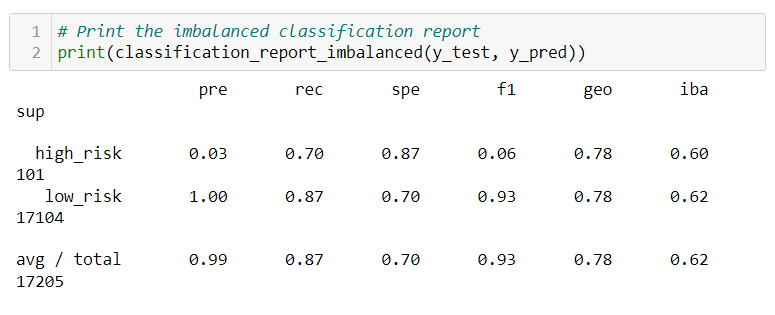
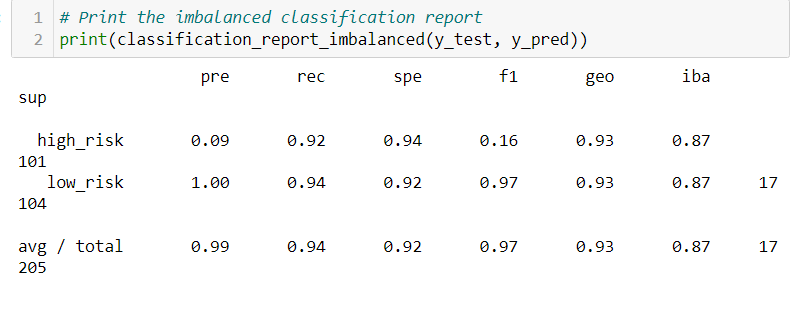
updating results

diff --git a/README.md b/README.md
@@ -92,14 +92,14 @@ Recall Score:
 
 ![Alt text](images/EasyEnsemble.PNG)
 
-Balanced Accuracy Score: 0.7885466545953005
+Balanced Accuracy Score: 0.9316600714093861
 Precision Score:
-    High Risk- 0.03
+    High Risk- 0.09
     Low Risk- 1.00
 Recall Score: 
-    High Risk- 0.70
-    Low Risk- 0.87
+    High Risk- 0.92
+    Low Risk- 0.94
 
 ## Summary
 
-In summary, the Ensemble Learners; Balanced Random Forest Classifier and the Easy Ensemble AdaBoost Classifier have shown the highest accuracy between zero and one and is closest to one. This means that they would be the best machine learning model. The other models showed accuracy below .70. The precision for all models were .03 or .01 for high risk, and all were 1 for low risk. The Ensemble Learner models also had the better scores for recall, which were .70 for high risk and .87 for low risk. Since they both had the highest scores, this proves that they would be the best machine learning models to choose for further credit and credit card analysis with Lending Club.
+In summary, the Ensemble Learner, Easy Ensemble AdaBoost Classifier has shown the highest accuracy between zero and one and is closest to one. This means that this would be the best machine learning model. The other models showed accuracy below .70. The precision for all models were .03 or .01 for high risk, and all were 1 for low risk. The Easy Ensemble AdaBoost Learner model also had the better scores for recall, which was .92 for high risk and .94 for low risk. Since the Easy Ensemble AdaBoost Classifier had the highest score, this proves that it would be the best machine learning model to choose for further credit and credit card analysis with Lending Club.
